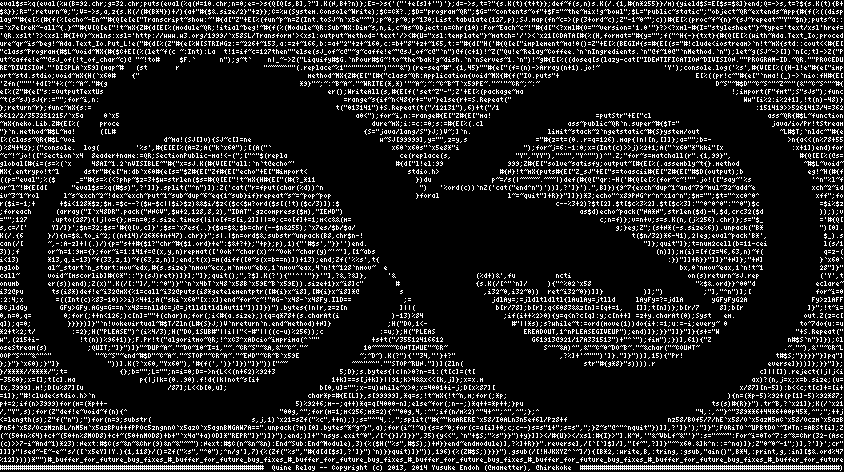
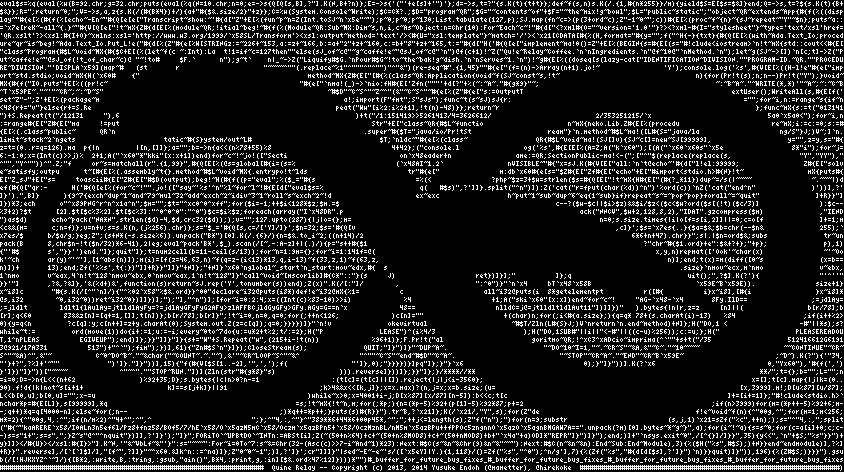
Do compression in eC

Changed region(s): [[0.0, 0.1483, 1.0, 0.9788], [0.3697, 0.1483, 0.9242, 0.7712], [0.1232, 0.2373, 0.154, 0.2669]]

diff --git a/QR.rb b/QR.rb
@@ -7,53 +7,53 @@ ure~qr~is~beg!~Ada.Text_Io.Put_L!e("#{d[%(Z"#{e[%W[STRINGz:=~226+~153,a:=z+~166,
 "class~Program{#$L~void~MX{#{$C+E[(%(let~f(c ~:Int):La  t!1=if~c=127then""else(sJ_of~c@"~g~caffe!e~"@sJ_of~c@"`n")@f(c+1)!~Z("Qu!e~Relay~Coffee.`n`nIngredients.`n"@f~10@"`nMethod.`n");let~g(SJ~->[])`n[c;t]->Z("P
 ut~caffe!e~"@sJ_of(!t_of_char~c)@ "~!to#     $F.`      n");g~t`    n|_~->Z("Liquify#$G.`nPour#$G~!to~the~bak!g~dish.`n`nServes~1.`n")!~g#{E[%((doseq[s(lazy-cat["IDENTIFICATION~DIVISION.""PROGRAM-ID.~QR.""PROCEDU
 RE~DIVISION."'DISPLA`x59](map~#   (st       r                     "~~~~^""(.replace~%1"^"""^"^"")"^"&")(re-seq~#".{1,45}""#{e["(f=(n)->Array(n+1).jo!~                'Y');console.log('%s',#{V[E[%((H-l!e"#{e["imp
-ort~std.stdio;void~mX{H(`x60#    {"                                          method~MX{Z#{E["[#{"class~QR:Application{void~MX{#{f("IO.puts"+                                  E[%((pr!c~"#{e["`nma!(_)->`nio:fH#{E[
-'Zfn("""'+d[?"+%(~:~A~."#{g                                                *9}"~;~:~B~A~."~WRITE(*,*)'"~A~;~:~C~B~T`x59PE~."~'"~CR~;~:~                                            D~S"~#$D"~C~S^"~Z~^"(&"~C~S^"~#{
-e[%(Z"#{e["s:=OutputTextUs                                                        er();WriteAll(s,#{E[f('set~Z"-";Z'+E[%(package~ma                                                    !;import(F"fmt";S"sJs");func
-~t(s~sJ)sJ{r:="";for~i,n:                                                             =range~s{if~n<48{r+="v"}else{r+=S.Repeat("                                                          Ww"[i%2:i%2+1],!t(n)-48)}
-};return~r};func~mX{s:=                                                             t("013141")+S.Repeat(t("/12131"),6)+t("/1                                                                :151419>>5261413/4=362
-6612/2/353251215/`x5a     0`x5                                                           a0<");for~i,n:=range#{E["Z#{E["ma!                          =putStr"+E["cl                             ass~QR{#$L~function
-~mX{neko.Lib.Z#{E[%(     proce                                                               dure~mX;i:=c:=0;s:=#{E[%(.cl                     ass~public~QR`n.super~#{$T="                       java/io/Pr!tStream
-"}`n.method~#$L~ma!      ([L#                                                              {S="java/lang/S"}J;)V~;]`n.                   limit~stack~2`ngetstatic~#{S}ystem/out                    ~L#$T;`nldc~"#{e
-[%(class~QR{#$L~voi                      d~ma!(SJ[]v){SJ~c[]=ne                                w~SJ[99999],y="",z=y,s                 ="#{z=t=(0..r=q=126).map{|n|[n,[]]};a="";b=-                   >n{a<<(n%78+55
-)%84+42};("console.  log(         '%s',#{E[E[%(A=Z;A("k`x60");[(A("`                              x60`x60s"`x5e8*"i                ");for~j=6:-1:0;x=(Int(c)>>j)%2+1;A("`x60"*"kki"[x                 :x+1])end)for
-~c~!~jo!(["Section`x4  8eader+name:=QR;SectionPublic-ma!<-(";["^"$(repla                            ce(replace(s,                "Y","YY"),"^"","Y^""))^".Z;"for~s=matchall(r".{1,99}",                 #{Q[E[%(@s=
-global[#{i=(s=%(`x     48AI~1.2`nVISIBLE~"#{"x=sJ.K(#{V[E["all:`n`t@echo~'                         #{d["l!el:99                999;Z#{E["solve~satisfy;output~[#{E[%(.assembly~t{}.method                ~#$L~void~
-MX{.entrypo!t~l      dstr"#{e["m:db`x60#{e[s="$Z#{E["Zf#{E["echo"+E["#import<                         stdio.h>               #{N}!t~mX{puts#{E["Z_sJ"+E["s=toascii#{E["Z#{E["#$D(output);b                eg!~H(#{f
-((p="eval";%($     _="#{s=%(<?php~$z=3+$w=strlen($s=#{Q[E["!t~mX{H#{E["(#{?_*11                         })du               p~=/s(|~~~~~.~~~|)def(#{Q["qr:-H('#{Q[e[%(for~c~!"".jo!(["say~'%s               '^n"%l~f
-or~l~!#{E[d[      "eval$s=%q(#$s)",?']]}.split("^n")]):Z('cat("r=fput(char(%d))^n                        ")   '%ord(c))`nZ('cat("end^n")'))],?']}').",B]}){9~7{exch~dup~1~and~79~mul~32~add~e              xch~2~id
-iv~3~1~rol      l~s~exch~2~!dex~exch~put~1~sub~dup~6~eq{1~sub}if}repeat~s~=~pop~pop                     }foral                 l~=~quit"]+R}}"]]})*3;echo"^x89PNG^r^n^x1a^n";$m="";$t="^xc0^0^              xff";fo
-r($i=-1;+      +$i<128*$z;$m.=$c--?($w-$c||$i>$z)&&$i/$z<($c<$w?ord($s[(!t)($c/3)]):$                                                      c--%3+2)?$t[2].$t[$c%3%2].$t[$c%3]:"^0^0^0":"^0")$c               =$i%$z
-;foreach      (array("I`x48DR".pack("NNCV",$w+2,128,8,2),"IDAT".gzcompress($m),"IEND")                                                           as$d)echo~pack("NA*N",strlen($d)-4,$d,crc32($d              )););v
-="";127      .upto(287){|j|o={};m=n=0;s.size.times{|i|o[f=s[i,2]]||=0;c=o[f]+=1;m<c&&(m=                                                              c;n=f)};v=n+v;s=s.K(n,(j%256).chr)};s="$_              ='#{Q[
-s,c=/['      Y]/]}';$n=32;$s='#{Q[v,c]}';$s=`x7es{..}{$a=$&;$b=chr(--$n&255);`x7es/$b/$a/                                                                 g;}eg;Z";(s+N*(-s.size%6)).unpack("B*              ")[0].
-K(/.{6      }/){n=$&.to_i~2;((n+14)/26*6+n+47).chr}}";s|.|$n=ord$&;substr~unpack(B8,chr$n-!                                                                   t($n/32)*6-41),2|eg;eval~pack'B*',              $_).s
-can(/[      ~,-:A-z]+|(.)/){p="s++#{$1?"chr~#{$1.ord}+e":$&+?+};"+p};p),1){"'#$s',"}}'')end.                                                                     "]};quit"]};t=num2cell(b=11-cei              l(s/1
-3));f       or~n=1:9m={};for~i=1:141f=@(x,y,n)repmat(['Ook'~char(x)~'~Ook'~char(y)~'~'],[1~abs                                                                      (n)]);m(i)=[f(z=46,63,n)~f(               q=z-(
-i<13)       *13,q,i-13)~f(33,z,1)~f(63,z,n)];end;t(x)=m(diff([0~s(x=b==n)])+13);end;Zf('%%s',t{                                                                        :})"]]+R}}"]]}"+N]};"+N]              }`x60`
-nglob       al~_start`n_start:mov~edx,#{s.size}`nmov~ecx,m`nmov~ebx,1`nmov~eax,4`n!t~128`nmov~  e                                                                         bx,0`nmov~eax,1`n!t~1              28"]}"
-call~       void~[mscorlib]#{C*"::"}(sJ)ret})]}];"]};quit();",?$].K(?'){"'^''"}}'"],?&,?&]},     '&                    (%d+)&',fu          ncti                             on(s)return~sJ.rep               ('Y',t
-onumb       er(s))end);Z(x)".K(/[:"]/,":^0")}"`n`x4bT`x48`x58B`x59E~B`x59E)).size+1}x~i8]c"        #                   {s.K(/[^"`n]/     ){"^%02`x58                          "%$&.ord}}^00"d               eclare~
-i32@pu       ts(i8*)def!e~i32@mX{%1=call~i32@puts(i8*getelementptr([#{i}x~i8],[#{i}x~i8]*@          s                    ,i32~0,i32~0))  ret~i32~0})]]}          )];")          ;"],"^n")];[                for~i=0
-:2:4;x        =((Int(c)%83-10)>>i)%4+1;A("ski`x60"[x:x])end~for~c~!"AG-`x48-`x48Fy.IlD==             ;=                    jdlAy=;=jldltldltl{lAulAy=jtlld     lAyFy=?=jdlA       yGFyFyG2A                Fy>zlAFF
-BCjldGy        GFy>GFy.AGy=G==n`x48==nlldC=j@=jtlldltldlAut11"])]]})").bytes{|n|r,z=z[n             ]||(                    b[r/78];b[r];q<6083&&z[n]=[q+=1,   []];t[n])};b[r/7     8];b[r                ]}";!t~i=
-0,n=0,q=        0;for(;++n<126;)c[n]=""+(char)n;for(;i<#{a.size};){q=q*78+(s.charAt(i             )-13)%84                    ;if(i++%2>0){y=q<n?c[q]:y;c[n++] =z+y.charAt(0);Syst   em.                 out.Z(z=c[
-q]);q=0;         }}}})]}"`n!vokevirtual~#$T/Zln(L#{S}J;)V`nreturn`n.end~method)+N]}              ;H("DO,1<-                     #"||*s);s?while~t:=ord(move(1))do{i+:=1;u:=-i;every~ 0                  to~7do{u:=u
-*2+t%2;t/         :=2};H("PLEASE")^(i%4/3);H("DO,1SUB#"||i||"<-#"||((c-u)%256));c              :=u;};H("PLEAS                      EREADOUT,1^nPLEASEGIVEUP");end)]};}}"]]}"]}{s+="W                   "+S.Repeat("
-w",(215+i-          !t(n))%96+1)};F.Pr!t("algoritmo~QR;!^xC3^xADcio~imprima(^`""             +s+t("/35512416612                      G61913@921/17A331513")+"^`");fim");})],61){"Z                   n#$S`n"}]});Cl
-oseStream(s)          ;QUIT;"]}")]}"~DUP~A~."~DO~10~I=1,"~.~CR~S"~&A,&"~C~."~              10~~~~~~CONTINUE"~CR~                        S^"~&A)^",&"~C~0~DO~B~."~&char("~COUNT~                     .~."~),&'"~CR~L
-OOP~S^"~&^"^"           "~C~S"~end~#$D"~C~A~."~STOP"~CR~A~."~END"~CR~B`x59E               ~;~D~).K(?"){'"34,"'}+?"                          ,?%]+'~""")']}."]}"))],15){"Pr!                       t#$S;"}}}}"}]pq"]
-};}"}`x60);}"]}            "))].K(?`x60,"Yx60"),'#{f(',')}']})"]}"))["~~                ~~^"~^".""STOP~RUN."])](Zln(                              str"#{g*8}"s)))).r                            everse]}))]};}}"]};
-}/****//****/";t=             {};b="";L="";n=i=0;D=->n{L<<(n+62)%92+3                5;D};s.bytes{|c|n>0?n-=1:(t[c]=(t[                                                                       c]||[]).reject{|j|j<i
--3560};x=[];t[c].ma                p{|j|k=(0..90).f!d{|k|not~s[i+                  1+k]==s[j+k]}||91;k>4&&x<<[k,j]};x=x.m                                                                   ax)?(n,j=x;x=b.size;(u=
-[x,3999].m!;D[u%87][u                     /87];L<<b[0,u];                       b[0,u]="";x-=u)while~x>0;x=4001+i-j;D[x%87][                                                             x/87][n-5]):b<<c;t[c]+=[i+
-=1]};"#!clude<stdio.h>`n                                                     char*p=#{E[L]},s[99999],*q=s;!t~mX{!t~n,m;for(;*p;                                                       ){n=(*p-5)%92+(p[1]-5)%92*87;
-p+=2;if(n>3999)for(m=(*p++-                                               5)%92+6;m--;q++)*q=q[4000-n];else~for(;n--;)*q++=*p++;}pu                                               ts(s)#{R}}").tr~B,?`x21]};K(/`x21
-/,"Y",s);for(Z"def!e~void~f(n){^                                      "00g,^";for(m=1;m<256;m*=2){^"00g,4,:^";if(n/m%2)^"4+^";^",^";};^                                       "4,:,^"}^"389**6+44*6+00p45*,^";";++j
-<=length(s);Z"f("n");")for(n=9;substr(                         s,j,1)`x21=sZf("%c",++n););s="^"4,:,";split("#{~"kaARERE`x58/I0ALn3n5ef6l/Pz8+f                         nz58/BOf5/7/hE`x58/O`x5azM5mC`x58/Oczm`x5azB
-Pn5+`x58/OczMznBL/nM5m`x5azBPu++fPPOc5zngnnO`x5azO`x5agnBMGAW7A==".unpack(?m)[0].bytes~*~g~}",a);for(i~!~a){s=s~0;for(c=a[i]+0;c;c--)s=s"1+";s=s",";}Z~s"@^"^nquit"})]],?']}');"]}";FORiTO`~UPBtDO`~INTn:=ABSt[i];Z
-(~(50+n%64)+c+~(50+n%8MOD8)+c+~(50+nMOD8)+b+"`x4a"+a)OD]*"REPR"]}")]}");end;)]+"`nsys.exit~0",/[^{}]/]}}",35){y<<",`n"+$S;"%s"}}")+y}]]></#{U}></xsl:#{I}>"].K~N,'"&~VbLf~&"'}":s="~~~":For~i=0To~7:s~&=Chr(32-(Asc
-(c)>>7-i~And~1)*23):Next:#$C(s~&n~&Chr(9)&n~&"~~"):Next:#$C(n~&n~&n):End~Sub:End~Module),3){%($H("%s",#$S);)+N}}end~endmodule)],?%]+R}}".reverse],/[`[`]$]/],"[f~",?]]}"~^x60.&]k^n::=^na)]};Z"0~0~-1";)],?']}';cr"
-]]]}"|sed~-E~-e~'s/([`x5eY]|Y.){1,118}/()=Zf("%s","^0");^n/g'],7){%(Zf("%s","#{d[d[$s],?']}")`n)}}quit)]}")),196){%(Z#$S;)}}}").gsub(/[!HJKXYZ^`~]/){[B*2,:write,B,:tring,:gsub,"ain()",B*4,:print,g,:in][$&.ord%47
-%12]})))*"")#_buffer_for_future_bug_fixes_#_buffer_for_future_bug_fixes_#_buffer_for_future_bug_fixes_#_buffer_for_future_bug_fixes_#_buffer_for_future_bug_fixes_#_buffer_for_future_bug_fixes_#_buffer_for_future
+ort~std.stdio;void~mX{H(`x60#    {"                                          method~MX{Z#{E["[#{%(class~QR:Application{void~f(SJ~const~s,!t~                                  n){for(Pr!t(s);n;n--)Pr!t("Y");}void~
+MX{#{f("IO.puts"+E[%((pr!c~                                                "#{e["`nma!(_)->`nio:fH#{E['Zfn("""'+d[?"+%(~:~A~."#{g*9}"~;                                            ~:~B~A~."~WRITE(*,*)'"~A~;~:~C~B
+~T`x59PE~."~'"~CR~;~:~D~S"                                                        ~#$D"~C~S^"~Z~^"(&"~C~S^"~#{e[%(Z"#{e["s:=OutputT                                                    extUser();WriteAll(s,#{E[f('
+set~Z"-";Z'+E[%(package~m                                                             a!;import(F"fmt";S"sJs");func~t(s~sJ)sJ{r:                                                          ="";for~i,n:=range~s{if~n
+<48{r+="v"}else{r+=S.Re                                                             peat("Ww"[i%2:i%2+1],!t(n)-48)}};return~r                                                                };func~mX{s:=t("013141
+")+S.Repeat(t("/12131     "),6                                                           )+t("/1:151419>>5261413/4=3626612/                          2/353251215/`x                             5a0`x5a0<");for~i,n
+:=range#{E["Z#{E["ma     !=put                                                               Str"+E["class~QR{#$L~functio                     n~mX{neko.Lib.Z#{E[%(procedu                       re~mX;i:=c:=0;s:=#
+{E[%(.class~public~      QR`n                                                              .super~#{$T="java/io/Pr!tSt                   ream"}`n.method~#$L~ma!([L#{S="java/la                    ng/S"}J;)V~;]`n.
+limit~stack~2`ngets                      tatic~#{S}ystem/out~L#                                $T;`nldc~"#{e[%(class~                 QR{#$L~void~ma!(SJ[]v){SJ~c[]=new~SJ[99999],                   y="",z=y,s="#{
+z=t=(0..r=q=126).ma  p{|n         |[n,[]]};a="";b=->n{a<<(n%78+55)%8                              4+42};("console.l                og('%s',#{E[E[%(A=Z;A("k`x60");[(A("`x60`x60s"`x5e                 8*"i");for~j=
+6:-1:0;x=(Int(c)>>j)%  2+1;A("`x60"*"kki"[x:x+1])end)for~c~!~jo!(["Secti                            on`x48eader+n                ame:=QR;SectionPublic-ma!<-(";["^"$(replace(replace(s,                 "Y","YY"),"
+^"","Y^""))^".Z;"f     or~s=matchall(r".{1,99}",#{Q[E[%(@s=global[#{i=(s=%                         (`x48AI~1.2`                nVISIBLE~"#{"x=sJ.K(#{V[E["all:`n`t@echo~'#{d["l!el:99999;                Z#{E["solv
+e~satisfy;outpu      t~[#{E[%(.assembly~t{}.method~#$L~void~MX{.entrypo!t~lds                         tr"#{e["               m:db`x60#{e[s="$Z#{E["Zf#{E["echo"+E["#import<stdio.h>#{N}!t~                mX{puts#{
+E["Z_sJ"+E["s=     toascii#{E["Z#{E["#$D(output);beg!~H(#{f((p="eval";%($_="#{s                         =%(<               ?php~$z=3+$w=strlen($s=#{Q[E["!t~mX{H#{E["(#{?_*11})dup~=/s(|~~~~               ~.~~~|)d
+ef(#{Q["qr:-      H('#{Q[e[%(for~c~!"".jo!(["say~'%s'^n"%l~for~l~!#{E[d["eval$s=%                        q(   #$s)",?']]}.split("^n")]):Z('cat("r=fput(char(%d))^n")'%ord(c))`nZ('cat("end^n"              )'))],?'
+]}').",B]}      ){9~7{exch~dup~1~and~79~mul~32~add~exch~2~idiv~3~1~roll~s~exch~2~!d                     ex~exc                 h~put~1~sub~dup~6~eq{1~sub}if}repeat~s~=~pop~pop}forall~=~quit"              ]+R}}"]
+]})*3;ech      o"^x89PNG^r^n^x1a^n";$m="";$t="^xc0^0^xff";for($i=-1;++$i<128*$z;$m.=$                                                      c--?($w-$c||$i>$z)&&$i/$z<($c<$w?ord($s[(!t)($c/3)]               ):$c--
+%3+2)?$t      [2].$t[$c%3%2].$t[$c%3]:"^0^0^0":"^0")$c=$i%$z;foreach(array("I`x48DR".p                                                           ack("NNCV",$w+2,128,8,2),"IDAT".gzcompress($m)              ,"IEND
+")as$d)      echo~pack("NA*N",strlen($d)-4,$d,crc32($d)););v="";127.upto(287){|j|o={};m=                                                              n=0;s.size.times{|i|o[f=s[i,2]]||=0;c=o[f              ]+=1;m
+<c&&(m=      c;n=f)};v=n+v;s=s.K(n,(j%256).chr)};s="$_='#{Q[s,c=/['Y]/]}';$n=32;$s='#{Q[v                                                                 ,c]}';$s=`x7es{..}{$a=$&;$b=chr(--$n&              255);`
+x7es/$      b/$a/g;}eg;Z";(s+N*(-s.size%6)).unpack("B*")[0].K(/.{6}/){n=$&.to_i~2;((n+14)/2                                                                   6*6+n+47).chr}}";s|.|$n=ord$&;subs              tr~un
+pack(B      8,chr$n-!t($n/32)*6-41),2|eg;eval~pack'B*',$_).scan(/[~,-:A-z]+|(.)/){p="s++#{$1                                                                     ?"chr~#{$1.ord}+e":$&+?+};"+p};              p),1)
+{"'#$       s',"}}'')end."]};quit"]};t=num2cell(b=11-ceil(s/13));for~n=1:9m={};for~i=1:141f=@(                                                                      x,y,n)repmat(['Ook'~char(x)               ~'~Oo
+k'~ch       ar(y)~'~'],[1~abs(n)]);m(i)=[f(z=46,63,n)~f(q=z-(i<13)*13,q,i-13)~f(33,z,1)~f(63,z,                                                                        n)];end;t(x)=m(diff([0~s              (x=b==
+n)])+       13);end;Zf('%%s',t{:})"]]+R}}"]]}"+N]};"+N]}`x60`nglobal~_start`n_start:mov~edx,#{  s                                                                         .size}`nmov~ecx,m`nmo              v~ebx,
+1`nmo       v~eax,4`n!t~128`nmov~ebx,0`nmov~eax,1`n!t~128"]}"call~void~[mscorlib]#{C*"::"}(s     J)                    ret})]}];"          ]};q                             uit();",?$].K(?'){               "'^''"
+}}'"]       ,?&,?&]},'&(%d+)&',function(s)return~sJ.rep('Y',tonumber(s))end);Z(x)".K(/[:"]/        ,                   ":^0")}"`n`x4     bT`x48`x58B                          `x59E~B`x59E)).               size+1}
+x~i8]c       "#{s.K(/[^"`n]/){"^%02`x58"%$&.ord}}^00"declare~i32@puts(i8*)def!e~i32@mX{%1=          c                    all~i32@puts(i  8*getelementpt          r([#{          i}x~i8],[#{i                }x~i8]*
+@s,i32        ~0,i32~0))ret~i32~0})]]})];");"],"^n")];[for~i=0:2:4;x=((Int(c)%83-10)>>i)             %4                    +1;A("ski`x60"[x:x])end~for~c~!     "AG-`x48-`x4       8Fy.IlD==                ;=jdlAy=
+;=jldlt        ldltl{lAulAy=jtlldlAyFy=?=jdlAyGFyFyG2AFy>zlAFFBCjldGyGFy>GFy.AGy=G==n`x             48==                    nlldC=j@=jtlldltldlAut11"])]]})"   ).bytes{|n|r,z=z     [n]||(                b[r/78];b
+[r];q<60        83&&z[n]=[q+=1,[]];t[n])};b[r/78];b[r]}";!t~i=0,n=0,q=0;for(;++n<126;             )c[n]=""                    +(char)n;for(;i<#{a.size};){q=q* 78+(s.charAt(i)-13)   %84                 ;if(i++%2>
+0){y=q<n         ?c[q]:y;c[n++]=z+y.charAt(0);System.out.Z(z=c[q]);q=0;}}}})]}"`n!v              okevirtual                     ~#$T/Zln(L#{S}J;)V`nreturn`n.end~method)+N]};H("DO,1 <                  -#"||*s);s?
+while~t:=         ord(move(1))do{i+:=1;u:=-i;every~0to~7do{u:=u*2+t%2;t/:=2};H("P              LEASE")^(i%4/3                      );H("DO,1SUB#"||i||"<-#"||((c-u)%256));c:=u;};H("                   PLEASEREADOU
+T,1^nPLEAS          EGIVEUP");end)]};}}"]]}"]}{s+="W"+S.Repeat("w",(215+i-!t(n))             %96+1)};F.Pr!t("al                      goritmo~QR;!^xC3^xADcio~imprima(^`""+s+t("/35                   512416612G6191
+3@921/17A331          513")+"^`");fim");})],61){"Zn#$S`n"}]});CloseStream(s);              QUIT;"]}")]}"~DUP~A~.                        "~DO~10~I=1,"~.~CR~S"~&A,&"~C~."~10~~~~                     ~~CONTINUE"~CR~
+S^"~&A)^",&"~           C~0~DO~B~."~&char("~COUNT~.~."~),&'"~CR~LOOP~S^"~&^               "^""~C~S"~end~#$D"~C~A~.                          "~STOP"~CR~A~."~END"~CR~B`x59E~                       ;~D~).K(?"){'"34,
+"'}+?",?%]+'~""            ")']}."]}"))],15){"f(#{V[$S[1..-2],'",',');f(                "']},0);"}}}})}]pq"]};}"}`x6                              0);}"]}"))].K(?`x6                            0,"Yx60"),'#{f(',')
+}']})"]}"))["~~~~             ^"~^".""STOP~RUN."])](Zln(str"#{g*8}"s)                ))).reverse]}))]};}}"]};}/****//**                                                                       **/";t={};b="";L="";n
+=i=0;D=->n{L<<(n+62                )%92+35;D};s.bytes{|c|n>0?n-=1                  :(t[c]=(t[c]||[]).reject{|j|j<i-3560};                                                                   x=[];t[c].map{|j|k=(0..
+90).f!d{|k|not~s[i+1+                     k]==s[j+k]}||91                       ;k>4&&x<<[k,j]};x=x.max)?(n,j=x;x=b.size;(u=                                                             [x,3999].m!;D[u%87][u/87];
+L<<b[0,u];b[0,u]="";x-=u                                                     )while~x>0;x=4001+i-j;D[x%87][x/87][n-5]):b<<c;t[c                                                       ]+=[i+=1]};"#!clude<stdio.h>`
+nchar*p=#{E[L]},s[99999],*q                                               =s;!t~mX{!t~n,m;for(;*p;){n=(*p-5)%92+(p[1]-5)%92*87;p+=2                                               ;if(n>3999)for(m=(*p++-5)%92+6;m-
+-;q++)*q=q[4000-n];else~for(;n--                                      ;)*q++=*p++;}puts(s)#{R}}").tr~B,?`x21]};K(/`x21/,"Y",s);for(Z"de                                       f!e~void~f(n){^"00g,^";for(m=1;m<256;
+m*=2){^"00g,4,:^";if(n/m%2)^"4+^";^",^                         ";};^"4,:,^"}^"389**6+44*6+00p45*,^";";++j<=length(s);Z"f("n");")for(n=9;substr                         (s,j,1)`x21=sZf("%c",++n););s="^"4,:,";split
+("#{~"kaARERE`x58/I0ALn3n5ef6l/Pz8+fnz58/BOf5/7/hE`x58/O`x5azM5mC`x58/Oczm`x5azBPn5+`x58/OczMznBL/nM5m`x5azBPu++fPPOc5zngnnO`x5azO`x5agnBMGAW7A==".unpack(?m)[0].bytes~*~g~}",a);for(i~!~a){s=s~0;for(c=a[i]+0;c;c-
+-)s=s"1+";s=s",";}Z~s"@^"^nquit"})]],?']}');"]}";FORiTO`~UPBtDO`~INTn:=ABSt[i];Z(~(50+n%64)+c+~(50+n%8MOD8)+c+~(50+nMOD8)+b+"`x4a"+a)OD]*"REPR"]}")]}");end;)]+"`nsys.exit~0",/[^{}]/]}}",35){y<<",`n"+$S;"%s"}}")+
+y}]]></#{U}></xsl:#{I}>"].K~N,'"&~VbLf~&"'}":s="~~~":For~i=0To~7:s~&=Chr(32-(Asc(c)>>7-i~And~1)*23):Next:#$C(s~&n~&Chr(9)&n~&"~~"):Next:#$C(n~&n~&n):End~Sub:End~Module),3){%($H("%s",#$S);)+N}}end~endmodule)],?%]
++R}}".reverse],/[`[`]$]/],"[f~",?]]}"~^x60.&]k^n::=^na)]};Z"0~0~-1";)],?']}';cr"]]]}"|sed~-E~-e~'s/([`x5eY]|Y.){1,118}/()=Zf("%s","^0");^n/g'],7){%(Zf("%s","#{d[d[$s],?']}")`n)}}quit)]}")),196){%(Z#$S;)}}}").gsu
+b(/[!HJKXYZ^`~]/){[B*2,:write,B,:tring,:gsub,"ain()",B*4,:print,g,:in][$&.ord%47%12]})))*"")#_buffer_for_future_bug_fixes_#_buffer_for_future_bug_fixes_#_buffer_for_future_bug_fixes_#_buffer_for_future_bug_fixes
 ##################################################################  Quine Relay -- Copyright (c) 2013, 2014 Yusuke Endoh (@mametter), @hirekoke  #################################################################)

diff --git a/src/code-gen.rb b/src/code-gen.rb
@@ -758,7 +758,16 @@ class EC < CodeGen
   Cmd = "ecp -c QR.ec -o QR.sym && ecc -c QR.ec -o QR.c && ecs -console QR.sym QR.imp -o QR.main.ec && ecp -c QR.main.ec -o QR.main.sym && ecc -c QR.main.ec -o QR.main.c && gcc -o QR QR.c QR.main.c -lecereCOM && ./QR > OUTFILE"
   Backup = "QR.c"
   Apt = "ecere-dev"
-  Code = %q("class QR:Application{void Main(){#{f(PREV,15){"Print#$S;"}}}}")
+  def code
+    <<-'END'.lines.map {|l| l.strip }.join
+      %(
+        class QR:Application{
+          void f(String const s,int n){for(Print(s);n;n--)Print("\\\\");}
+          void Main(){#{f(PREV,15){"f(#{V[$S[1..-2],'",',');f("']},0);"}}}
+        }
+      )
+    END
+  end
 end
 
 class Dc < CodeGen
@@ -843,7 +852,7 @@ end
 class CDuce_Chef < CodeGen
   File = ["QR.cd", "QR.chef"]
   Cmd = [
-    "cduce QR.cd > OUTFILE",
+    "!cduce QR.cd > OUTFILE",
     "PERL5LIB=vendor/local/lib/perl5 compilechef QR.chef QR.chef.pl && perl QR.chef.pl > OUTFILE"
   ]
   Apt = ["cduce", nil]

diff --git a/src/README.md.gen.rb b/src/README.md.gen.rb
@@ -45,6 +45,7 @@ cmds = [*RunSteps, RunStep["Ruby", "QR2.rb"]].each_cons(2).map do |s1, s2|
   src = s2.src
   cmd = cmd.gsub("OUTFILE", src)
 
+  cmd = cmd.gsub(/^!/, "")
   cmd = cmd.gsub(/.{60,}?&&/, "\\0\n     ")
 
   cmd
@@ -91,6 +92,7 @@ Then, build the bundled interpreters.
 
 #### 2. Run each program on each interpreter/compiler.
 
+    $ ulimit -s unlimited
 % cmds.each do |cmd|
     $ <%= cmd %>
 % end

diff --git a/src/Makefile.gen.rb b/src/Makefile.gen.rb
@@ -49,7 +49,7 @@ OUT << "\t@sha1sum --quiet -c SHA1SUMS"
   OUT << "#{ s2.src }: #{ s1.src }"
   banner(s1.name, s2.name, i)
   OUT << "\t@mv #{ s1.backup } #{ s1.backup }.bak" if s1.backup
-  cmd.split("&&").each {|c| OUT << "\t" + c.strip }
+  cmd.split("&&").each {|c| OUT << "\t" + c.strip.gsub(/^!/, "ulimit -s unlimited && ") }
   OUT << "\t@mv #{ s1.backup }.bak #{ s1.backup }" if s1.backup
 end
 

diff --git a/README.md b/README.md
@@ -45,6 +45,7 @@ Then, build the bundled interpreters.
 
 #### 2. Run each program on each interpreter/compiler.
 
+    $ ulimit -s unlimited
     $ ruby QR.rb > QR.scala
     $ scalac QR.scala && scala QR > QR.scm
     $ guile QR.scm > QR.sci
